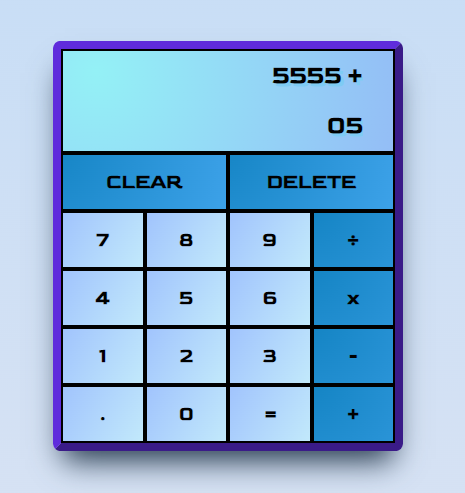
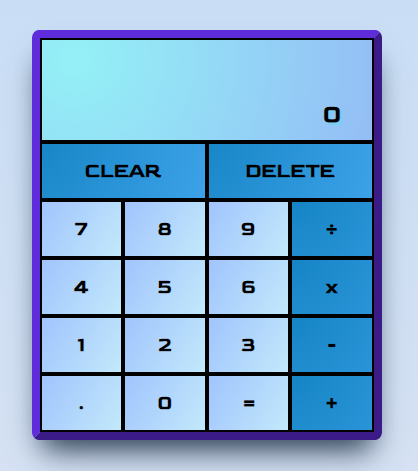
add comments to code, change preview image

diff --git a/calculator.js b/calculator.js
@@ -4,7 +4,6 @@ let secondNumber = '';
 let currentOperator = '';
 let resetScreen = false;
 
-
 //selecting html elements
 const lastOperationScreen = document.getElementById('lastOperation');
 const currentOperationScreen = document.getElementById('currentOperation');
@@ -34,6 +33,7 @@ function convertOperator(e) {
     assignOperator(e.target.id);
 }
 
+//below function takes the keyboard input event and assigns an action to each button
 function keyboardInput (e) {
     if(e.key >= 0 && e.key <= 9)  updateCurrentOperation(e.key);
     if(e.key === '.') addPoint();
@@ -45,7 +45,7 @@ function keyboardInput (e) {
     console.log(`Current key: ${e.key}`);
 }
 
-
+//below function updates the current operation screen. Standard it displays a 0, which gets removed when entering digits
 function updateCurrentOperation(number) {
     if (lastOperationScreen.textContent === '0' || resetScreen === true) removeZero();
     if (currentOperationScreen.textContent === '0') { 
@@ -55,6 +55,9 @@ function updateCurrentOperation(number) {
     currentOperationScreen.textContent += number;
 }
 
+//when an operator is triggered, it stores the first number and operator in a variable
+//the first number and operator are displayed in the upper screen zone
+//if the firstNumber variable is already holding a value, a temporary result is calculated and displayed in the upper and lower screen zone
 function assignOperator(operator) {
     if(currentOperator !== '') calculateResult();
     firstNumber = Number(currentOperationScreen.textContent);
@@ -63,6 +66,7 @@ function assignOperator(operator) {
     resetScreen = true;
     }
 
+//when the equals button is pressed, the last entered number is stored in the second number variable, and the operation is performed
 function calculateResult() {
     if (currentOperator === '' || resetScreen) return;
     if (currentOperator === '÷' && currentOperationScreen.textContent === '0') {
@@ -75,10 +79,12 @@ function calculateResult() {
     resetScreen = true;
 }
 
+//resets bottom zone of the calculator screen
 function removeZero() {
     currentOperationScreen.textContent = '';
 }
 
+//resets variables and calculator screen, ready for a new calculation from scratch
 function clearCalculation () {
     currentOperationScreen.textContent = '0';
     lastOperationScreen.textContent = '';
@@ -89,24 +95,22 @@ function clearCalculation () {
 }
 
 function defaultZero() {
-    currentOperationScreen.textContent = 0;
+    currentOperationScreen.textContent = '0';
 } 
 
+//deletes one digit at a time of the lastly entered number
 function deleteLastNumber() {
     currentOperationScreen.textContent = currentOperationScreen.textContent.slice(0, -1);
 }
 
+//below function adds a point if no point is already entered
 function addPoint() {
     if (currentOperationScreen.textContent === '') defaultZero();
     if (currentOperationScreen.textContent.includes('.')) return;
     currentOperationScreen.textContent += '.';
 }
 
-//if 1 character = display 0;
-    if (currentOperationScreen.textContent === '') () => defaultZero();
-
-//change above function, not working correctly anymore due to change in other code
-
+//round the number 3 digits after point
 function roundNumber (number) {
     let roundedNumber = Math.round(number * 1000) / 1000;
     return roundedNumber;
@@ -128,6 +132,7 @@ function divide (a,b) {
     return a / b;
 }
 
+//performs the actual operation
 function operate (operator, a, b) {
     switch(operator) {
         case '+':

diff --git a/styles.css b/styles.css
@@ -1,9 +1,6 @@
-@import url('https://fonts.googleapis.com/css2?family=Press+Start+2P&display=swap');
 @import url('https://fonts.googleapis.com/css2?family=Goldman&family=Press+Start+2P&display=swap');
 
-
 html, body, main {
-    /* box-sizing: border-box; */
     margin: 0;
     padding: 0;
 }
@@ -16,7 +13,6 @@ body {
     align-items: center;
     justify-content: space-between;
     background: linear-gradient(#bfdbf7, #e1e5f2);
-
 }
 
 main {
@@ -29,8 +25,6 @@ main {
 
 #calculator {
     box-sizing: border-box;
-    border: black 5px solid;
-    border-radius: 2%;
     min-width: 200px;
     max-width: 350px;
     max-height: auto;
@@ -43,7 +37,6 @@ main {
 }
 
 #calculatorScreen {
-    background-color: #f0fbff;
     min-height: 100px;
     display:flex;
     flex-direction: column;
@@ -69,14 +62,9 @@ main {
     text-shadow:rgb(126, 203, 244) 3px 3px;
 }
 
-#buttonContainer {
-    flex:1;
-}
-
 #topButtons {
     display: flex;
-    justify-content: space-around;
-    background-color: lightgrey;
+    flex:1;
 }
 
 #clearButton, #deleteButton {
@@ -113,28 +101,24 @@ main {
     opacity: 1;
 }
 
-
 .operator {
     box-sizing: border-box;
-    background-color: #9ba6a5;
-    box-shadow: none;
     background: radial-gradient(465px at -15.1% -25%, rgb(17, 130, 193) 0%, rgb(67, 166, 238) 49%, rgb(126, 203, 244) 90.2%);
     opacity: 1;
 }
+
 .operator:hover, .button:hover {
     opacity:.7;
 }
 
 footer {
     display:flex;
-    height: auto;
     justify-content: center;
     width: 100vw;
     margin-bottom: 2vmax;
     align-items: center;
     font-family: 'Goldman', sans-serif;
     font-size: 20px;
-    color: #5f2cdc;
 }
 
 a {
@@ -145,12 +129,10 @@ a {
 
 a:hover {
     opacity: .5;
-    
 }
 
 img {
     margin-bottom: -5px;
     margin-right: 10px;
-    color: #5f2cdc;
     transform: scale(1.3);
 }

diff --git a/index.html b/index.html
@@ -6,7 +6,7 @@
     <meta name="viewport" content="width=device-width, initial-scale=1.0">
     <script src="calculator.js" defer></script>
     <link  rel="stylesheet" href="styles.css">
-    <title>Document</title>
+    <title>Calculator</title>
 </head>
 <body>
 <main> 
